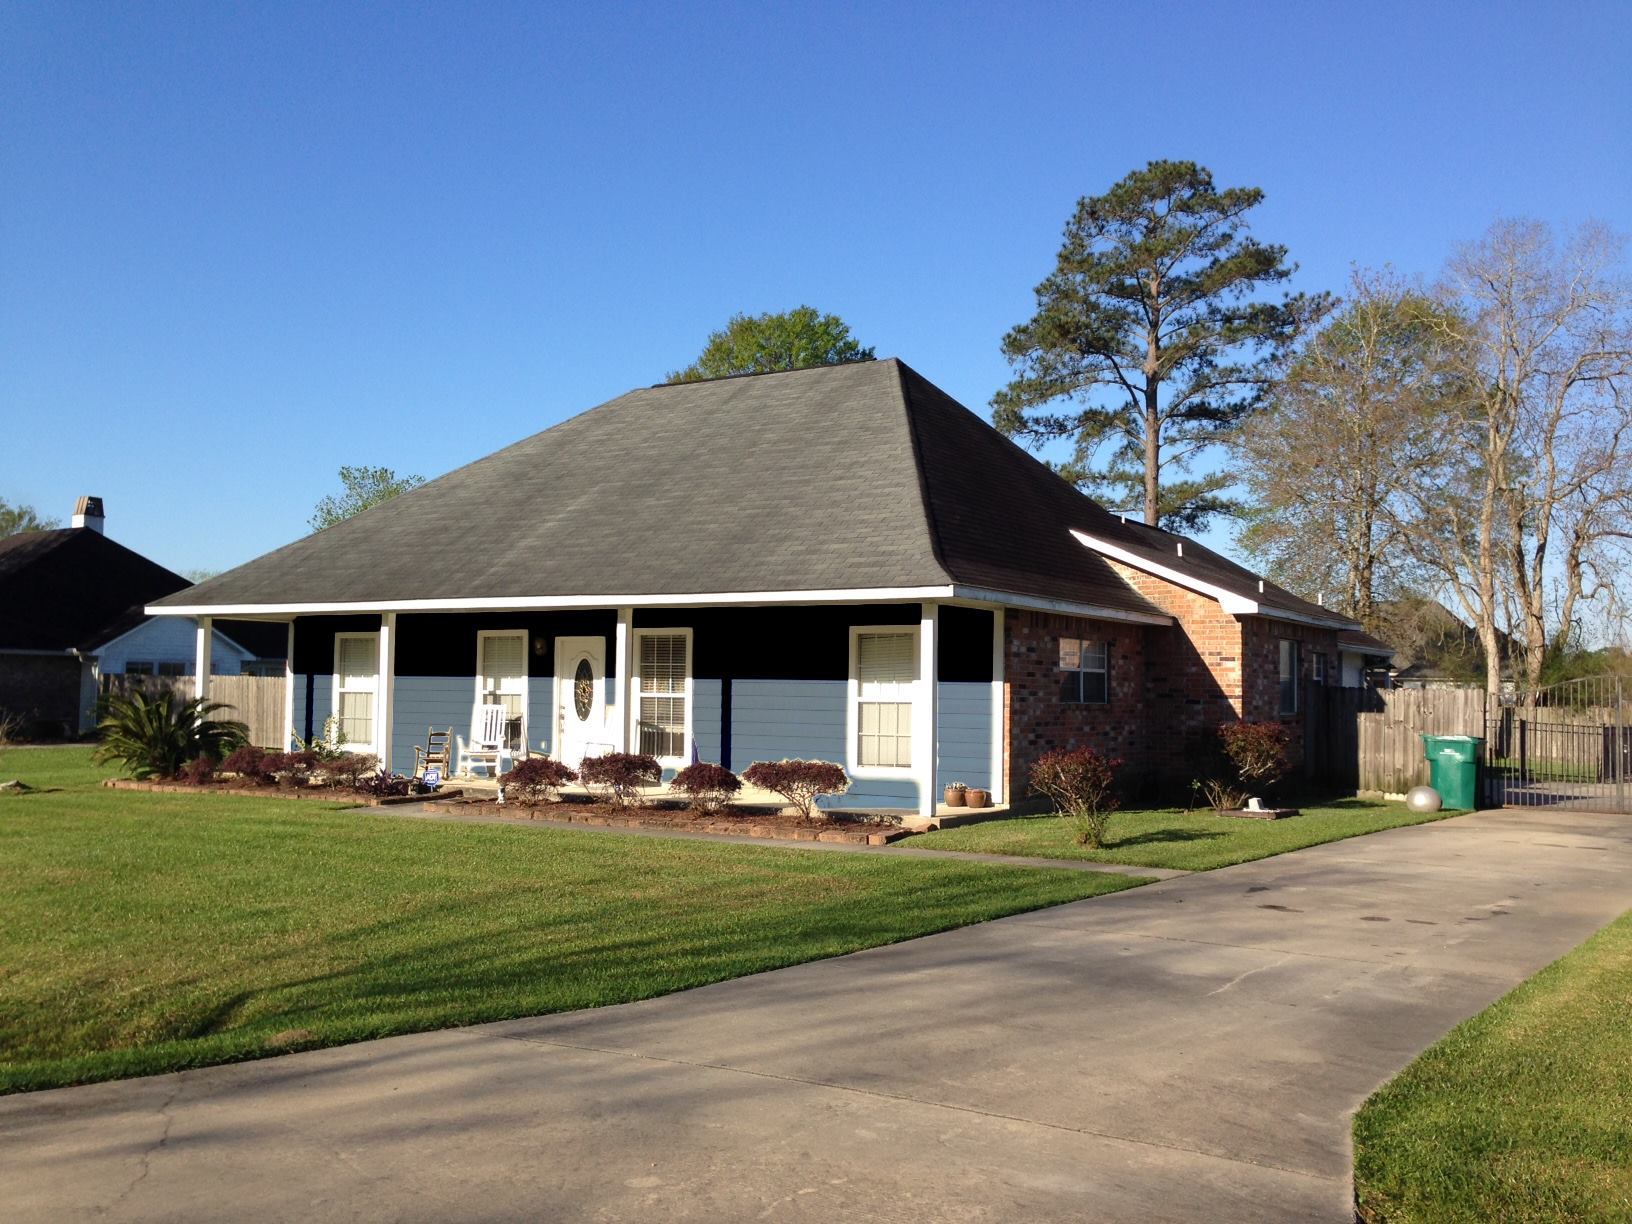
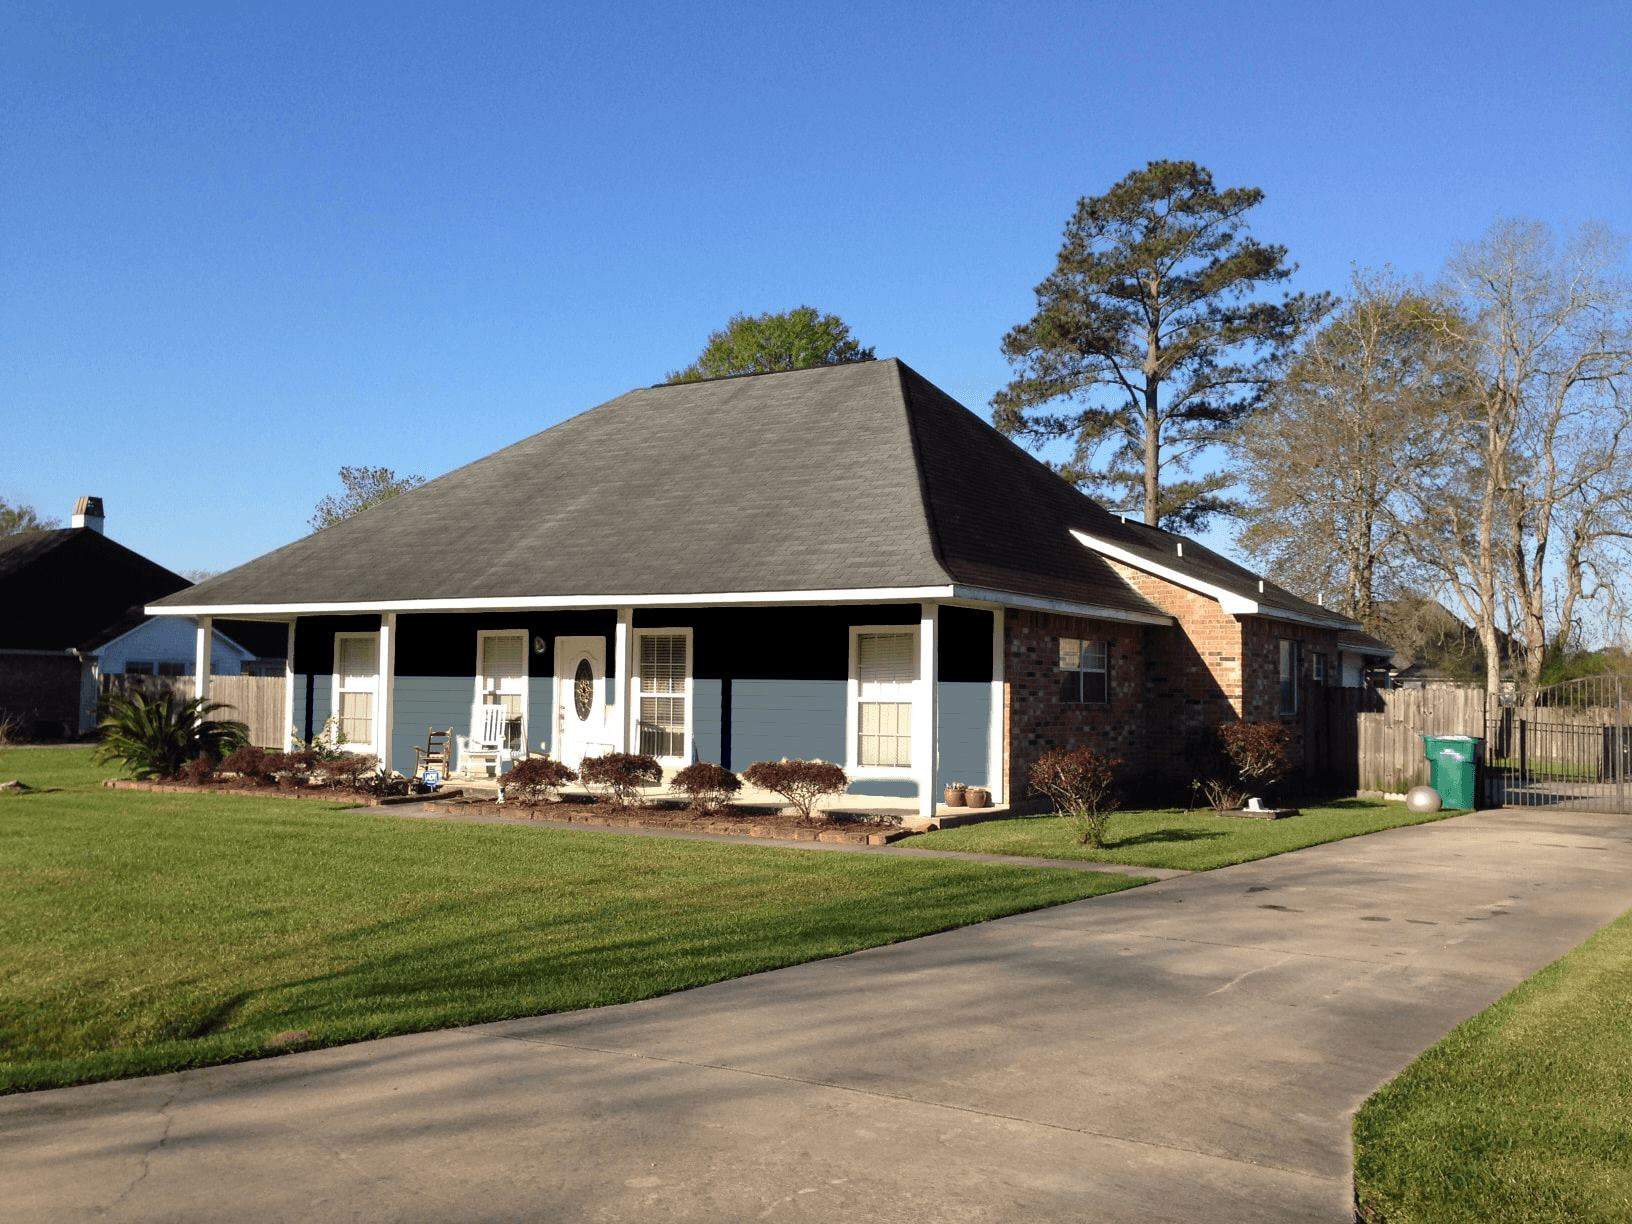
Add images

Changed region(s): [[0.5, 0.5899, 0.625, 0.683], [0.25, 0.5899, 0.3125, 0.652], [0.4062, 0.6209, 0.4375, 0.652]]

diff --git a/js/app.js b/js/app.js
@@ -32,6 +32,12 @@ var initialHouses = [
 
 			house2Src: 'img/house/house_greige.jpg',
 			buttonSrc: 'img/buttons/greige.png'
+		},
+
+		{
+
+			house2Src: 'img/house/house_charcoal.jpg',
+			buttonSrc: 'img/buttons/charcoal.png'
 		}
 	];
 
